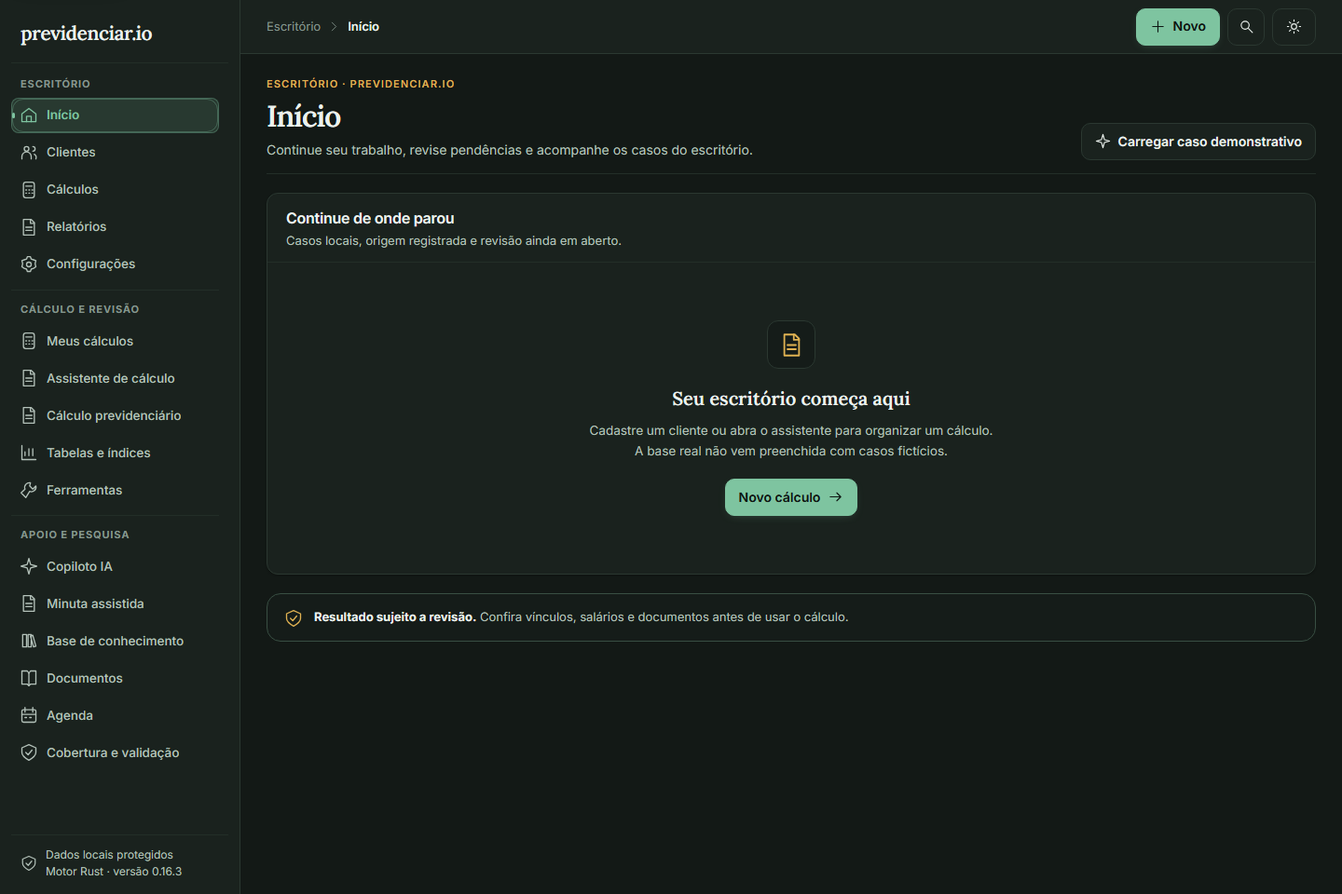
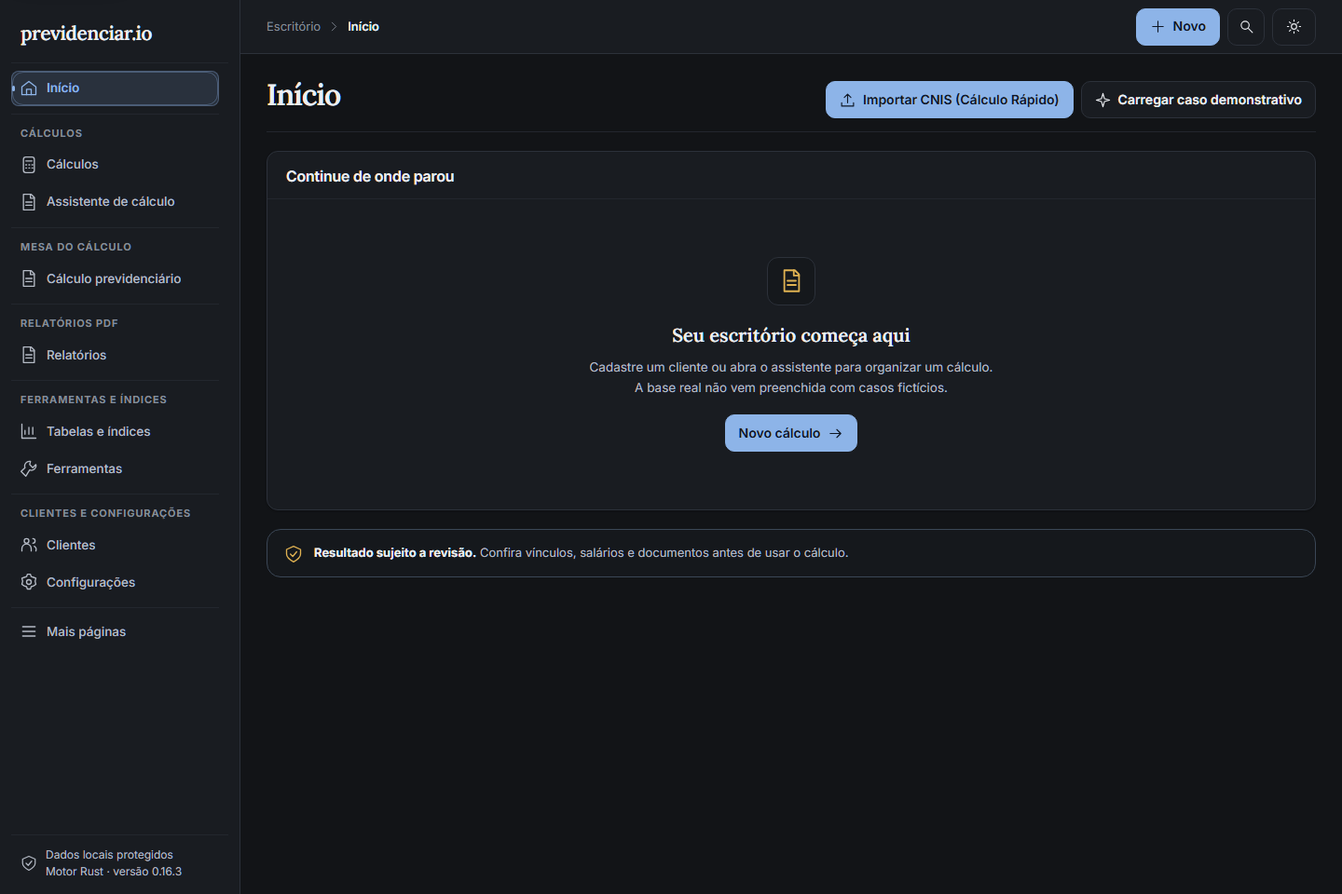
feat(ui): menu em 5 áreas, mesa em 4 abas e aviso de CNIS não revisado no PDF
- Menu lateral com 5 áreas; páginas secundárias em "Mais páginas".
- Mesa do cálculo agrupada em 4 abas; Fábrica TRF3 em aba própria.
- Relatórios PDF mostram "Dados do CNIS não revisados" quando o cálculo
  saiu direto do extrato, com teste.
- Testes de interface ajustados à nova navegação.

diff --git a/apps/desktop/tests/app.test.tsx b/apps/desktop/tests/app.test.tsx
@@ -1,7 +1,7 @@
 import{describe,it,expect,vi,beforeEach}from'vitest';import{render,screen,waitFor,within}from'@testing-library/react';import userEvent from'@testing-library/user-event';import App from'../src/App';import{blankWorkspace,blankCase}from'../src/model';const invoke=vi.hoisted(()=>vi.fn());vi.mock('@tauri-apps/api/core',()=>({invoke}));
 beforeEach(()=>{invoke.mockReset();invoke.mockImplementation(async(cmd:string,args?:Record<string,unknown>)=>{if(cmd==='bootstrap')return{workspace:blankWorkspace(),storage_ready:true,message:null};if(cmd==='save_workspace')return{...(args?.workspace as object),revision:1};throw new Error('Unexpected native command '+cmd)});});
 async function open(){render(<App/>);await screen.findByRole('heading',{name:'Início'});return userEvent.setup()}
-describe('desktop UI workflows with mocked IPC boundary',()=>{it('shows a real empty base instead of invented dashboard metrics',async()=>{await open();expect(screen.getByText('Seu escritório começa aqui')).toBeInTheDocument();expect(screen.getByText('Base local')).toBeInTheDocument()});it('creates a synthetic client and saves the complete workspace',async()=>{const u=await open();await u.click(screen.getByRole('button',{name:'Clientes',exact:true}));await u.click(screen.getByRole('button',{name:'Novo cliente',exact:true}));const dialog=screen.getByRole('dialog',{name:'Novo cliente'});await u.type(within(dialog).getByLabelText(/^Nome/),'Cliente Sintético Teste');await u.click(within(dialog).getByRole('button',{name:'Salvar cliente'}));await screen.findByText('Cliente Sintético Teste');const call=invoke.mock.calls.find(x=>x[0]==='save_workspace');expect(call?.[1].workspace.clients[0].name).toBe('Cliente Sintético Teste');expect(call?.[1].workspace.calculations).toEqual([]);expect(call?.[1].workspace.schema_version).toBe(3)});it('does not accept malformed client birth date',async()=>{const u=await open();await u.click(screen.getByRole('button',{name:'Clientes',exact:true}));await u.click(screen.getByRole('button',{name:'Novo cliente',exact:true}));const d=screen.getByRole('dialog');await u.type(within(d).getByLabelText(/^Nome/),'Sintético');await u.type(within(d).getByLabelText('Nascimento'),'31/02/2026');await u.click(within(d).getByRole('button',{name:'Salvar cliente'}));expect(invoke.mock.calls.filter(x=>x[0]==='save_workspace')).toHaveLength(0);const birth=within(d).getByLabelText('Nascimento');expect(birth).toHaveAttribute('aria-invalid','true');expect(birth).toHaveAttribute('aria-describedby');await waitFor(()=>expect(birth).toHaveFocus());expect(screen.getByRole('alert')).toHaveTextContent('data de nascimento válida')});it('all office pages are navigable',async()=>{const u=await open();for(const name of['Cálculos','Tabelas e índices','Ferramentas','Documentos','Relatórios','Agenda','Configurações','Cobertura e validação']){await u.click(screen.getByRole('button',{name,exact:true}));expect(screen.getByRole('heading',{level:1,name})).toBeInTheDocument()}});it('manual data editor retains eight panels without assuming gender',async()=>{const u=await open();await u.click(screen.getByRole('button',{name:'Novo cálculo',exact:true}));await u.click(screen.getByRole('button',{name:'Não usar o assistente',exact:true}));await u.click(screen.getByRole('button',{name:'3. Cenário'}));const sex=screen.getByLabelText('Sexo cadastral confirmado')as HTMLSelectElement;expect(sex.value).toBe('');for(const step of['4. Vínculos','5. Salários','6. Parâmetros','7. Revisão','8. Resultado']){await u.click(screen.getByRole('button',{name:step}));}expect(screen.getByRole('button',{name:'Executar motor RGPS'})).toBeInTheDocument()});it('save error keeps the draft and reports a real failure',async()=>{invoke.mockImplementation(async(cmd:string)=>{if(cmd==='bootstrap')return{workspace:blankWorkspace(),storage_ready:true,message:null};throw 'Falha de persistência'});const u=await open();await u.click(screen.getByRole('button',{name:'Novo cálculo',exact:true}));await u.click(screen.getByRole('button',{name:'Não usar o assistente',exact:true}));await u.type(screen.getByLabelText(/^Nome do cálculo/),'Caso sintético');await u.click(screen.getByRole('button',{name:'Salvar rascunho'}));await waitFor(()=>expect(screen.getByRole('alert')).toHaveTextContent('Falha de persistência'));expect(screen.getByLabelText(/^Nome do cálculo/)).toHaveValue('Caso sintético')});it('blocked engine output is not called a successful financial result',async()=>{invoke.mockImplementation(async(cmd:string)=>cmd==='bootstrap'?{workspace:blankWorkspace(),storage_ready:true,message:null}:cmd==='calculate_case'?{status:'blocked',data:null,blockers:[{code:'sex_missing',message:'Sexo pendente'}],warnings:[]}:null);const u=await open();await u.click(screen.getByRole('button',{name:'Novo cálculo',exact:true}));await u.click(screen.getByRole('button',{name:'Não usar o assistente',exact:true}));await u.click(screen.getByRole('button',{name:'8. Resultado'}));await u.click(screen.getByRole('button',{name:'Executar motor RGPS'}));await screen.findByText('Execução bloqueada');expect(screen.getByText('Sexo pendente')).toBeInTheDocument();expect(screen.queryByText('RMI da hipótese técnica')).not.toBeInTheDocument()});it('corrupt store boot never silently enables writes',async()=>{invoke.mockResolvedValue({workspace:blankWorkspace(),storage_ready:false,message:'Base inválida, gravação bloqueada'});await open();expect(screen.getByText('Base indisponível')).toBeInTheDocument();expect(screen.getByText(/arquivo existente não será sobrescrito/)).toBeInTheDocument()});it('keyboard search opens local palette',async()=>{const u=await open();await u.keyboard('{Control>}k{/Control}');expect(screen.getByRole('dialog',{name:'Buscar no escritório'})).toBeInTheDocument();await u.keyboard('{Escape}');expect(screen.queryByRole('dialog',{name:'Buscar no escritório'})).not.toBeInTheDocument()});});
+describe('desktop UI workflows with mocked IPC boundary',()=>{it('shows a real empty base instead of invented dashboard metrics',async()=>{await open();expect(screen.getByText('Seu escritório começa aqui')).toBeInTheDocument();expect(screen.getByText('Base local')).toBeInTheDocument()});it('creates a synthetic client and saves the complete workspace',async()=>{const u=await open();await u.click(screen.getByRole('button',{name:'Clientes',exact:true}));await u.click(screen.getByRole('button',{name:'Novo cliente',exact:true}));const dialog=screen.getByRole('dialog',{name:'Novo cliente'});await u.type(within(dialog).getByLabelText(/^Nome/),'Cliente Sintético Teste');await u.click(within(dialog).getByRole('button',{name:'Salvar cliente'}));await screen.findByText('Cliente Sintético Teste');const call=invoke.mock.calls.find(x=>x[0]==='save_workspace');expect(call?.[1].workspace.clients[0].name).toBe('Cliente Sintético Teste');expect(call?.[1].workspace.calculations).toEqual([]);expect(call?.[1].workspace.schema_version).toBe(3)});it('does not accept malformed client birth date',async()=>{const u=await open();await u.click(screen.getByRole('button',{name:'Clientes',exact:true}));await u.click(screen.getByRole('button',{name:'Novo cliente',exact:true}));const d=screen.getByRole('dialog');await u.type(within(d).getByLabelText(/^Nome/),'Sintético');await u.type(within(d).getByLabelText('Nascimento'),'31/02/2026');await u.click(within(d).getByRole('button',{name:'Salvar cliente'}));expect(invoke.mock.calls.filter(x=>x[0]==='save_workspace')).toHaveLength(0);const birth=within(d).getByLabelText('Nascimento');expect(birth).toHaveAttribute('aria-invalid','true');expect(birth).toHaveAttribute('aria-describedby');await waitFor(()=>expect(birth).toHaveFocus());expect(screen.getByRole('alert')).toHaveTextContent('data de nascimento válida')});it('all office pages are navigable',async()=>{const u=await open();for(const name of['Cálculos','Tabelas e índices','Ferramentas','Relatórios','Configurações']){await u.click(screen.getByRole('button',{name,exact:true}));expect(screen.getByRole('heading',{level:1,name})).toBeInTheDocument()}for(const name of['Documentos','Agenda','Cobertura e validação']){await u.click(screen.getByRole('button',{name:'Mais páginas',exact:true}));await u.click(within(screen.getByRole('dialog')).getByRole('button',{name,exact:true}));expect(screen.getByRole('heading',{level:1,name})).toBeInTheDocument()}});it('manual data editor retains eight panels without assuming gender',async()=>{const u=await open();await u.click(screen.getByRole('button',{name:'Novo cálculo',exact:true}));await u.click(screen.getByRole('button',{name:'Não usar o assistente',exact:true}));await u.click(screen.getByRole('button',{name:'3. Cenário'}));const sex=screen.getByLabelText('Sexo cadastral confirmado')as HTMLSelectElement;expect(sex.value).toBe('');for(const step of['4. Vínculos','5. Salários','6. Parâmetros','7. Revisão','8. Resultado']){await u.click(screen.getByRole('button',{name:step}));}expect(screen.getByRole('button',{name:'Executar motor RGPS'})).toBeInTheDocument()});it('save error keeps the draft and reports a real failure',async()=>{invoke.mockImplementation(async(cmd:string)=>{if(cmd==='bootstrap')return{workspace:blankWorkspace(),storage_ready:true,message:null};throw 'Falha de persistência'});const u=await open();await u.click(screen.getByRole('button',{name:'Novo cálculo',exact:true}));await u.click(screen.getByRole('button',{name:'Não usar o assistente',exact:true}));await u.type(screen.getByLabelText(/^Nome do cálculo/),'Caso sintético');await u.click(screen.getByRole('button',{name:'Salvar rascunho'}));await waitFor(()=>expect(screen.getByRole('alert')).toHaveTextContent('Falha de persistência'));expect(screen.getByLabelText(/^Nome do cálculo/)).toHaveValue('Caso sintético')});it('blocked engine output is not called a successful financial result',async()=>{invoke.mockImplementation(async(cmd:string)=>cmd==='bootstrap'?{workspace:blankWorkspace(),storage_ready:true,message:null}:cmd==='calculate_case'?{status:'blocked',data:null,blockers:[{code:'sex_missing',message:'Sexo pendente'}],warnings:[]}:null);const u=await open();await u.click(screen.getByRole('button',{name:'Novo cálculo',exact:true}));await u.click(screen.getByRole('button',{name:'Não usar o assistente',exact:true}));await u.click(screen.getByRole('button',{name:'8. Resultado'}));await u.click(screen.getByRole('button',{name:'Executar motor RGPS'}));await screen.findByText('Execução bloqueada');expect(screen.getByText('Sexo pendente')).toBeInTheDocument();expect(screen.queryByText('RMI da hipótese técnica')).not.toBeInTheDocument()});it('corrupt store boot never silently enables writes',async()=>{invoke.mockResolvedValue({workspace:blankWorkspace(),storage_ready:false,message:'Base inválida, gravação bloqueada'});await open();expect(screen.getByText('Base indisponível')).toBeInTheDocument();expect(screen.getByText(/arquivo existente não será sobrescrito/)).toBeInTheDocument()});it('keyboard search opens local palette',async()=>{const u=await open();await u.keyboard('{Control>}k{/Control}');expect(screen.getByRole('dialog',{name:'Buscar no escritório'})).toBeInTheDocument();await u.keyboard('{Escape}');expect(screen.queryByRole('dialog',{name:'Buscar no escritório'})).not.toBeInTheDocument()});});
 
 it('renders native-result structure as readable RMI and memory without legal certification',async()=>{invoke.mockImplementation(async(cmd:string)=>cmd==='bootstrap'?{workspace:blankWorkspace(),storage_ready:true,message:null}:cmd==='calculate_case'?{status:'experimental',legal_validation_performed:false,data:{native_result:{resumo:{rmi:'1600.00',salario_beneficio:'2000.00',competencias:300,coeficiente:'80%',carencia_meses:300},memoria:[{tipo:'coeficiente',descricao:'Hipótese sintética do motor',valor:'80%'}]}},warnings:['Resultado experimental, não validação jurídica.']}:null);const u=await open();await u.click(screen.getByRole('button',{name:'Novo cálculo',exact:true}));await u.click(screen.getByRole('button',{name:'Não usar o assistente',exact:true}));await u.click(screen.getByRole('button',{name:'8. Resultado'}));await u.click(screen.getByRole('button',{name:'Executar motor RGPS'}));await screen.findByText('R$ 1.600,00');expect(screen.getByText('Hipótese sintética do motor')).toBeInTheDocument();expect(screen.getByText('Revisão profissional necessária')).toBeInTheDocument();expect(screen.queryByRole('heading',{name:'Execução bloqueada'})).not.toBeInTheDocument()});
 

diff --git a/apps/desktop/tests/e2e/workflows.spec.ts b/apps/desktop/tests/e2e/workflows.spec.ts
@@ -5,6 +5,6 @@ test('visual dashboard, all local data synthetic',async({page})=>{await mockNati
 test('client create edit search archive and complete save payload',async({page})=>{await mockNative(page);await page.goto('/',{waitUntil:'domcontentloaded'});await page.getByRole('button',{name:'Clientes',exact:true}).click();await page.getByRole('button',{name:'Novo cliente',exact:true}).click();const modal=page.getByRole('dialog',{name:'Novo cliente'});await modal.getByLabel(/^Nome/).fill('Cliente Sintético UI');await modal.getByLabel('E-mail').fill('teste@invalid.test');await modal.getByRole('button',{name:'Salvar cliente'}).click();await expect(page.getByRole('row',{name:/Cliente Sintético UI/})).toBeVisible();await page.getByRole('button',{name:'Editar',exact:true}).click();await page.getByRole('dialog').getByLabel('Telefone').fill('Telefone sintético');await page.getByRole('dialog').getByRole('button',{name:'Salvar cliente'}).click();await page.getByLabel('Pesquisar nome, CPF, e-mail ou telefone').fill('Cliente Sintético');await expect(page.getByRole('row',{name:/Telefone sintético/})).toBeVisible();await page.screenshot({path:root+'/ui-clients.png',fullPage:true});await page.getByRole('button',{name:'Arquivar',exact:true}).click();await expect(page.getByText('Nenhum cliente encontrado')).toBeVisible();await page.getByLabel('Incluir arquivados').check();await expect(page.getByRole('button',{name:'Reativar'})).toBeVisible();});
 test('manual editor traverses all panels, preserves unknown parameters, blocked engine is visible',async({page})=>{await mockNative(page);await page.goto('/',{waitUntil:'domcontentloaded'});await page.getByRole('button',{name:'Novo cálculo',exact:true}).click();await page.getByRole('button',{name:'Não usar o assistente',exact:true}).click();await page.getByLabel('Nome do cálculo').fill('Caso Fictício UI');await page.getByRole('button',{name:'3. Cenário',exact:true}).click();await expect(page.getByLabel('Sexo cadastral confirmado')).toHaveValue('');await expect(page.getByLabel('Condição de deficiência')).toHaveValue('');await page.screenshot({path:root+'/ui-assistant-scenario.png',fullPage:true});for(const step of['4. Vínculos','5. Salários','6. Parâmetros','7. Revisão','8. Resultado'])await page.getByRole('button',{name:step,exact:true}).click();await page.getByRole('button',{name:'Executar motor RGPS'}).click();await expect(page.getByRole('heading',{name:'Execução bloqueada'})).toBeVisible();await expect(page.getByText('Sexo cadastral pendente de confirmação.',{exact:true})).toBeVisible();await page.screenshot({path:root+'/ui-assistant-blocked.png',fullPage:true});});
 test('tables editor preserves explicit provenance and manual values',async({page})=>{await mockNative(page);await page.goto('/',{waitUntil:'domcontentloaded'});await page.getByRole('button',{name:'Tabelas e índices',exact:true}).click();await page.getByRole('button',{name:'Nova tabela'}).click();const d=page.getByRole('dialog');await d.getByLabel(/^Nome/).fill('Série Fictícia UI');await d.getByLabel('Fonte / versão').fill('Fixture sintética, não oficial');await d.getByRole('button',{name:'Adicionar período'}).click();await d.getByLabel('period 1',{exact:true}).fill('2026-01');await d.getByLabel('value 1',{exact:true}).fill('1,00');await d.getByRole('button',{name:'Salvar tabela'}).click();await expect(page.getByText('Série Fictícia UI')).toBeVisible();await page.screenshot({path:root+'/ui-tables.png',fullPage:true});});
-test('documents and agenda editors save only declared synthetic entries',async({page})=>{await mockNative(page);await page.goto('/',{waitUntil:'domcontentloaded'});await page.getByRole('button',{name:'Documentos',exact:true}).click();await page.getByRole('button',{name:'Novo modelo'}).click();const d=page.getByRole('dialog');await d.getByLabel('Título').fill('Modelo Sintético UI');await d.getByLabel('Conteúdo do modelo').fill('Caso {{calculo}}; {{nome}}. Texto de teste, sem finalidade jurídica.');await d.getByRole('button',{name:'Salvar modelo'}).click();await expect(page.getByRole('heading',{name:'Modelo Sintético UI'})).toBeVisible();await page.screenshot({path:root+'/ui-documents.png',fullPage:true});await page.getByRole('button',{name:'Agenda',exact:true}).click();await page.getByRole('button',{name:'Novo compromisso'}).click();const a=page.getByRole('dialog');await a.getByLabel('Título').fill('Compromisso Sintético UI');await a.getByLabel('Data',{exact:true}).fill('11/10/2026');await a.getByLabel('Hora',{exact:true}).fill('10:00');await a.getByRole('button',{name:'Salvar compromisso'}).click();await expect(page.getByText('Compromisso Sintético UI')).toBeVisible();await page.screenshot({path:root+'/ui-agenda.png',fullPage:true});});
+test('documents and agenda editors save only declared synthetic entries',async({page})=>{await mockNative(page);await page.goto('/',{waitUntil:'domcontentloaded'});await page.getByRole('button',{name:'Mais páginas',exact:true}).click();await page.getByRole('dialog').getByRole('button',{name:'Documentos',exact:true}).click();await page.getByRole('button',{name:'Novo modelo'}).click();const d=page.getByRole('dialog');await d.getByLabel('Título').fill('Modelo Sintético UI');await d.getByLabel('Conteúdo do modelo').fill('Caso {{calculo}}; {{nome}}. Texto de teste, sem finalidade jurídica.');await d.getByRole('button',{name:'Salvar modelo'}).click();await expect(page.getByRole('heading',{name:'Modelo Sintético UI'})).toBeVisible();await page.screenshot({path:root+'/ui-documents.png',fullPage:true});await page.getByRole('button',{name:'Mais páginas',exact:true}).click();await page.getByRole('dialog').getByRole('button',{name:'Agenda',exact:true}).click();await page.getByRole('button',{name:'Novo compromisso'}).click();const a=page.getByRole('dialog');await a.getByLabel('Título').fill('Compromisso Sintético UI');await a.getByLabel('Data',{exact:true}).fill('11/10/2026');await a.getByLabel('Hora',{exact:true}).fill('10:00');await a.getByRole('button',{name:'Salvar compromisso'}).click();await expect(page.getByText('Compromisso Sintético UI')).toBeVisible();await page.screenshot({path:root+'/ui-agenda.png',fullPage:true});});
 test('finance form calls typed boundary and displays outcome with caveat',async({page})=>{await mockNative(page);await page.goto('/',{waitUntil:'domcontentloaded'});await page.getByRole('button',{name:'Ferramentas',exact:true}).click();await page.getByLabel('Módulo',{exact:true}).selectOption({label:'Atualização de valores'});for(const[label,value]of[['Valor principal','1.000,00'],['Correções mensais (%) separadas por ;','1;2'],['Juros por mês (%)','1'],['Número de meses','2'],['Honorários (%)','10'],['Honorários fixos','5,00'],['Fonte / declaração dos parâmetros','Parâmetros sintéticos de validação']])await page.getByLabel(label,{exact:false}).fill(value);await page.getByRole('button',{name:'Executar cálculo',exact:true}).click();await expect(page.getByText('R$ 1.160,88',{exact:true})).toBeVisible();await page.screenshot({path:root+'/ui-finance.png',fullPage:true});});
-test('all remaining sections and Ctrl+K are functional at narrow viewport',async({page})=>{await mockNative(page,true);await page.goto('/',{waitUntil:'domcontentloaded'});for(const name of['Cálculos','Relatórios','Configurações','Cobertura e validação']){await page.getByRole('button',{name,exact:true}).click();await expect(page.getByRole('heading',{name,level:1})).toBeVisible();await page.screenshot({path:root+'/ui-'+name.normalize('NFD').replace(/[\u0300-\u036f]/g,'').toLowerCase().replaceAll(' ','-')+'.png',fullPage:true});}await page.keyboard.press('Control+k');await expect(page.getByRole('dialog',{name:'Buscar no escritório'})).toBeVisible();await page.keyboard.press('Escape');await page.setViewportSize({width:1080,height:800});await page.getByRole('button',{name:'Início',exact:true}).click();await page.screenshot({path:root+'/ui-home-1080.png',fullPage:true});expect(await page.locator('body').evaluate(el=>el.scrollWidth<=window.innerWidth)).toBe(true);});
+test('all remaining sections and Ctrl+K are functional at narrow viewport',async({page})=>{await mockNative(page,true);await page.goto('/',{waitUntil:'domcontentloaded'});for(const name of['Cálculos','Relatórios','Configurações','Cobertura e validação']){if(name==='Cobertura e validação'){await page.getByRole('button',{name:'Mais páginas',exact:true}).click();await page.getByRole('dialog').getByRole('button',{name,exact:true}).click();}else await page.getByRole('button',{name,exact:true}).click();await expect(page.getByRole('heading',{name,level:1})).toBeVisible();await page.screenshot({path:root+'/ui-'+name.normalize('NFD').replace(/[\u0300-\u036f]/g,'').toLowerCase().replaceAll(' ','-')+'.png',fullPage:true});}await page.keyboard.press('Control+k');await expect(page.getByRole('dialog',{name:'Buscar no escritório'})).toBeVisible();await page.keyboard.press('Escape');await page.setViewportSize({width:1080,height:800});await page.getByRole('button',{name:'Início',exact:true}).click();await page.screenshot({path:root+'/ui-home-1080.png',fullPage:true});expect(await page.locator('body').evaluate(el=>el.scrollWidth<=window.innerWidth)).toBe(true);});

diff --git a/apps/desktop/tests/e2e/robot-entry.spec.ts b/apps/desktop/tests/e2e/robot-entry.spec.ts
@@ -1,6 +1,6 @@
 import{test,expect}from'@playwright/test';import{blankWorkspace,blankCase,blankInterview}from'../../src/model';
 async function bridge(page:import('@playwright/test').Page){const w=blankWorkspace();await page.addInitScript(workspace=>{let saved=workspace;const identity={full_name:'Pessoa Fictícia Robô UI',cpf:null,nit:null,birth_date:'1962-03-10',mother_name:null};const cnis={metadata:{page_count:1,source_sha256:null,extractor:'Synthetic UI fixture'},identity,salary_entries:[{competence:'2020-01',amount_centavos:200000,indicators:['PRPPS'],link_sequence:1,source:{page:1,line:1,index:1},excluded_from_validated_domain:true}],salary_months:{'2020-01':{count:1,amount_sum_centavos:200000,contains_unresolved_prpps:true}},links:[{sequence:1,raw_employer:'EMPREGADOR FICTÍCIO',start_date:'2020-01-01',end_date:null,prpps:true,indicators:['PRPPS'],reported_last_salary_month:'2020-01',inferred_last_salary_end:{date_candidate:'2020-01-31',requires_confirmation:true},source:{page:1}}],benefits:[],warnings:[{code:'unresolved_prpps',message:'Synthetic',count:1}],findings:[]};Object.defineProperty(window,'__TAURI_INTERNALS__',{value:{invoke:async(cmd:string,args:Record<string,unknown>)=>{if(cmd==='bootstrap')return{workspace:saved,storage_ready:true,message:null};if(cmd==='save_workspace'){saved={...(args.workspace as typeof workspace),revision:saved.revision+1};return saved}if(cmd==='pick_import_cnis'||cmd==='import_cnis_path')return cnis;if(cmd==='calculate_case')return{status:'blocked',data:null,blockers:[{message:'PRPPS e datas abertas exigem revisão documental.'}],warnings:['Synthetic UI IPC fixture; not a Rust computation']};throw new Error('Unexpected test command '+cmd)}}});},w)}
-async function start(page:import('@playwright/test').Page){await bridge(page);await page.goto('/',{waitUntil:'domcontentloaded'});await page.getByRole('button',{name:'Meus cálculos',exact:true}).click();await page.getByRole('button',{name:'Novo cálculo',exact:true}).click();await expect(page.getByRole('dialog',{name:'Novo cálculo'})).toBeVisible();await page.screenshot({path:'verification/ui-new-calculation-assistant-choice.png',fullPage:true});await page.getByRole('button',{name:'Usar o assistente de cálculos',exact:true}).click();await expect(page.getByText(/Sou o assistente/)).toBeVisible();}
+async function start(page:import('@playwright/test').Page){await bridge(page);await page.goto('/',{waitUntil:'domcontentloaded'});await page.getByRole('button',{name:'Mais páginas',exact:true}).click();await page.getByRole('dialog').getByRole('button',{name:'Meus cálculos',exact:true}).click();await page.getByRole('button',{name:'Novo cálculo',exact:true}).click();await expect(page.getByRole('dialog',{name:'Novo cálculo'})).toBeVisible();await page.screenshot({path:'verification/ui-new-calculation-assistant-choice.png',fullPage:true});await page.getByRole('button',{name:'Usar o assistente de cálculos',exact:true}).click();await expect(page.getByText(/Sou o assistente/)).toBeVisible();}
 test('requested exact entry is visible, calm interview starts only after choosing the assistant',async({page})=>{await start(page);await expect(page.getByRole('button',{name:'Prosseguir',exact:true})).toBeDisabled();await page.getByLabel('Nome do cálculo',{exact:true}).fill('Teste Sintético Robô');await page.getByRole('button',{name:'Prosseguir',exact:true}).click();await expect(page.getByRole('button',{name:/Não, o segurado não está recebendo benefício/})).toBeVisible();await page.screenshot({path:'verification/ui-robot-benefit-question.png',fullPage:true});});
 test('CNIS-shaped fixture is imported then requires unknown facts, all later panels and blocks are exercised',async({page})=>{await start(page);await page.getByLabel('Nome do cálculo',{exact:true}).fill('Teste Sintético Importação Robô');await page.getByRole('button',{name:'Prosseguir',exact:true}).click();await page.getByRole('button',{name:/Não, o segurado não está recebendo benefício/}).click();await page.getByRole('button',{name:/Sim, desejo importar dados do INSS/}).click();await page.getByRole('button',{name:/Selecionar CNIS PDF/}).click();await expect(page.getByRole('button',{name:'Aplicar CNIS e continuar',exact:true})).toBeVisible();await page.screenshot({path:'verification/ui-robot-cnis-review-synthetic.png',fullPage:true});await page.getByRole('button',{name:'Aplicar CNIS e continuar',exact:true}).click();await page.getByRole('button',{name:/Simular um novo benefício/}).click();await page.getByRole('button',{name:/Calcular um novo benefício/}).click();
 // O assistente mostra um parâmetro por tela: o sexo vem primeiro e a deficiência

diff --git a/apps/desktop/src/App.tsx b/apps/desktop/src/App.tsx
@@ -52,25 +52,26 @@ type Page =
   | 'coverage';
 
 const NAV: { id: Page; label: string; full?: string; icon: string; group: string }[] = [
-  { id: 'home', label: 'Início', icon: 'home', group: 'Escritório' },
-  { id: 'clients', label: 'Clientes', icon: 'users', group: 'Escritório' },
-  { id: 'cases', label: 'Cálculos', icon: 'calc', group: 'Escritório' },
-  { id: 'reports', label: 'Relatórios', icon: 'file', group: 'Escritório' },
-  { id: 'settings', label: 'Configurações', icon: 'settings', group: 'Escritório' },
-  { id: 'rgps', label: 'Meus cálculos', icon: 'calc', group: 'Cálculo e revisão' },
-  { id: 'robot', label: 'Assistente de cálculo', icon: 'file', group: 'Cálculo e revisão' },
-  { id: 'wizard', label: 'Cálculo previdenciário', icon: 'file', group: 'Cálculo e revisão' },
-  { id: 'tables', label: 'Tabelas e índices', icon: 'chart', group: 'Cálculo e revisão' },
-  { id: 'tools', label: 'Ferramentas', icon: 'tool', group: 'Cálculo e revisão' },
-  { id: 'ai', label: 'Copiloto IA', icon: 'spark', group: 'Apoio e pesquisa' },
-  { id: 'minuta', label: 'Minuta assistida', icon: 'file', group: 'Apoio e pesquisa' },
-  { id: 'knowledge', label: 'Base de conhecimento', icon: 'library', group: 'Apoio e pesquisa' },
-  { id: 'documents', label: 'Documentos', icon: 'book', group: 'Apoio e pesquisa' },
-  { id: 'agenda', label: 'Agenda', icon: 'calendar', group: 'Apoio e pesquisa' },
-  { id: 'coverage', label: 'Cobertura e validação', icon: 'shield', group: 'Apoio e pesquisa' },
+  { id: 'home', label: 'Início', icon: 'home', group: 'Início' },
+  { id: 'cases', label: 'Cálculos', icon: 'calc', group: 'Cálculos' },
+  { id: 'robot', label: 'Assistente de cálculo', icon: 'file', group: 'Cálculos' },
+  { id: 'wizard', label: 'Cálculo previdenciário', icon: 'file', group: 'Mesa do cálculo' },
+  { id: 'reports', label: 'Relatórios', icon: 'file', group: 'Relatórios PDF' },
+  { id: 'tables', label: 'Tabelas e índices', icon: 'chart', group: 'Ferramentas e índices' },
+  { id: 'tools', label: 'Ferramentas', icon: 'tool', group: 'Ferramentas e índices' },
+  { id: 'clients', label: 'Clientes', icon: 'users', group: 'Clientes e configurações' },
+  { id: 'settings', label: 'Configurações', icon: 'settings', group: 'Clientes e configurações' },
+  { id: 'rgps', label: 'Meus cálculos', icon: 'calc', group: 'Mais' },
+  { id: 'ai', label: 'Copiloto IA', icon: 'spark', group: 'Mais' },
+  { id: 'minuta', label: 'Minuta assistida', icon: 'file', group: 'Mais' },
+  { id: 'knowledge', label: 'Base de conhecimento', icon: 'library', group: 'Mais' },
+  { id: 'documents', label: 'Documentos', icon: 'book', group: 'Mais' },
+  { id: 'agenda', label: 'Agenda', icon: 'calendar', group: 'Mais' },
+  { id: 'coverage', label: 'Cobertura e validação', icon: 'shield', group: 'Mais' },
 ];
 
-const NAV_GROUPS = ['Escritório', 'Cálculo e revisão', 'Apoio e pesquisa'] as const;
+/** Áreas do menu lateral. As páginas do grupo "Mais" ficam no botão "Mais páginas". */
+const NAV_GROUPS = ['Início', 'Cálculos', 'Mesa do cálculo', 'Relatórios PDF', 'Ferramentas e índices', 'Clientes e configurações'] as const;
 
 const WEB_MODE = import.meta.env.MODE === 'web';
 
@@ -817,7 +818,7 @@ function WorkspaceApp() {
         <nav className="side-nav" aria-label="Navegação principal">
           {NAV_GROUPS.map(group => (
             <div className="side-group" key={group}>
-              <div className="side-group-label">{group}</div>
+              {group !== 'Início' && <div className="side-group-label">{group}</div>}
               {NAV.filter(n => n.group === group).map(n => (
                 <div key={n.id}>
                   <button
@@ -837,6 +838,19 @@ function WorkspaceApp() {
               ))}
             </div>
           ))}
+          <div className="side-group">
+            <button
+              type="button"
+              className={'side-link ' + (NAV.some(n => n.group === 'Mais' && n.id === page) ? 'active' : '')}
+              aria-label="Mais páginas"
+              title="Mais páginas"
+              data-od-id="nav-more"
+              onClick={() => setMobileMenu(true)}
+            >
+              <Icon name="menu" />
+              <span className="side-label">Mais páginas</span>
+            </button>
+          </div>
         </nav>
         <div className="side-foot">
           <Icon name="shield" size={18} />

diff --git a/apps/desktop/src/components/CaseWorkbench.tsx b/apps/desktop/src/components/CaseWorkbench.tsx
@@ -30,7 +30,15 @@ import { ReportCenter } from './ReportCenter';
 import { LinkKindSelect } from './LinkKindSelect';
 import { CnisTimeline } from './CnisTimeline';
 
-const STEPS = ['Identificação', 'CNIS', 'Cenário', 'Vínculos', 'Salários', 'Parâmetros', 'Revisão', 'Resultado'];
+const STEPS = ['Identificação', 'CNIS', 'Cenário', 'Vínculos', 'Salários', 'Parâmetros', 'Revisão', 'Resultado', 'Comparativo'];
+const LAST_STEP = STEPS.length - 1;
+/** Abas da mesa do cálculo. Cada aba agrupa etapas; os índices de etapa continuam os mesmos. */
+const TABS: { label: string; steps: number[] }[] = [
+  { label: 'Dados e CNIS', steps: [0, 1, 2] },
+  { label: 'Períodos e salários', steps: [3, 4] },
+  { label: 'Resultado e relatórios PDF', steps: [5, 6, 7] },
+  { label: 'Fábrica TRF3', steps: [8] },
+];
 
 function warningLabel(code: string) {
   const m: Record<string, string> = {
@@ -282,7 +290,7 @@ export function CaseWorkbench({
   }
 
   function jumpToFabrica() {
-    setStep(7);
+    setStep(8);
     requestAnimationFrame(() => {
       document.getElementById('fabrica-hub')?.scrollIntoView({ behavior: 'smooth', block: 'start' });
     });
@@ -474,17 +482,36 @@ export function CaseWorkbench({
       )}
 
       {!embedded && (
-        <div className="wizard-bar">
-          {STEPS.map((s, i) => (
-            <button
-              key={s}
-              aria-label={i + 1 + '. ' + s}
-              className={'wizard-step ' + (step === i ? 'active' : i < step ? 'done' : '')}
-              onClick={() => setStep(i)}
-            >
-              <span>{i + 1}.</span> {s}
-            </button>
-          ))}
+        <div className="wizard-bar wizard-tabs" role="navigation" aria-label="Abas da mesa do cálculo">
+          {TABS.map(tab => {
+            const activeTab = tab.steps.includes(step);
+            return (
+              <div key={tab.label} className={'wizard-tab ' + (activeTab ? 'active' : '')}>
+                <button
+                  type="button"
+                  className="wizard-tab-head"
+                  aria-current={activeTab ? 'step' : undefined}
+                  onClick={() => setStep(tab.steps[0])}
+                >
+                  {tab.label}
+                </button>
+                {tab.steps.length > 1 && (
+                  <div className="wizard-tab-steps">
+                    {tab.steps.map(i => (
+                      <button
+                        key={STEPS[i]}
+                        aria-label={i + 1 + '. ' + STEPS[i]}
+                        className={'wizard-step ' + (step === i ? 'active' : i < step ? 'done' : '')}
+                        onClick={() => setStep(i)}
+                      >
+                        <span>{i + 1}.</span> {STEPS[i]}
+                      </button>
+                    ))}
+                  </div>
+                )}
+              </div>
+            );
+          })}
         </div>
       )}
 
@@ -1188,7 +1215,7 @@ export function CaseWorkbench({
 
           {draft.result && <ResultView result={draft.result} />}
 
-          <FabricaCheck draft={draft} workspace={workspace} onChange={setDraft} />
+          {embedded && <FabricaCheck draft={draft} workspace={workspace} onChange={setDraft} />}
 
           {(draft.result || draft.fabrica || draft.cnis) && (
             <ReportCenter
@@ -1203,6 +1230,12 @@ export function CaseWorkbench({
         </>
       )}
 
+      {step === 8 && !embedded && (
+        <div>
+          <FabricaCheck draft={draft} workspace={workspace} onChange={setDraft} />
+        </div>
+      )}
+
       {!embedded && (
         <footer className="wizard-foot">
           <Button disabled={step === 0} onClick={() => setStep(step - 1)}>
@@ -1210,7 +1243,7 @@ export function CaseWorkbench({
           </Button>
           <div>
             <Button onClick={() => void onSave(draft)}>Salvar rascunho</Button>
-            {step < 7 && (
+            {step < LAST_STEP && (
               <Button primary onClick={() => setStep(step + 1)}>
                 Próxima etapa
                 <Icon name="arrow" size={16} />

diff --git a/apps/desktop/tests/robot.test.tsx b/apps/desktop/tests/robot.test.tsx
@@ -1,7 +1,7 @@
 import{describe,it,expect,vi,beforeEach}from'vitest';import{render,screen,within,waitFor}from'@testing-library/react';import userEvent from'@testing-library/user-event';import App from'../src/App';import{RobotAssistant,assistantStepState}from'../src/components/RobotAssistant';import{blankWorkspace,blankCase,blankInterview,withInterviewAnswer,robotParameterIssues}from'../src/model';import type{Calculation,Cnis}from'../src/model';const invoke=vi.hoisted(()=>vi.fn());vi.mock('@tauri-apps/api/core',()=>({invoke}));
 function fixtureCnis():Cnis{return{metadata:{page_count:1,source_sha256:null,extractor:'synthetic'},identity:{full_name:'Pessoa Fictícia de Teste',cpf:null,nit:null,birth_date:'1962-03-10',mother_name:null},salary_entries:[{competence:'2020-01',amount_centavos:200000,indicators:['PRPPS'],link_sequence:1,source:{page:1,line:1,index:1},excluded_from_validated_domain:true}],salary_months:{'2020-01':{count:1,amount_sum_centavos:200000,contains_unresolved_prpps:true}},links:[{sequence:1,raw_employer:'EMPREGADOR FICTÍCIO',start_date:'2020-01-01',end_date:null,prpps:true,indicators:['PRPPS'],reported_last_salary_month:'2020-01',inferred_last_salary_end:{date_candidate:'2020-01-31',requires_confirmation:true},source:{page:1}}],benefits:[{sequence:2,species:41,status:'denied'}],findings:[],warnings:[{code:'unresolved_prpps',message:'Sintético: pendência',count:1},{code:'missing_end_date',message:'Fim ausente',count:1}]}}
 beforeEach(()=>{invoke.mockReset();invoke.mockImplementation(async(cmd:string,args?:Record<string,unknown>)=>{if(cmd==='bootstrap')return{workspace:blankWorkspace(),storage_ready:true,message:null};if(cmd==='save_workspace')return{...(args?.workspace as object),revision:1};if(cmd==='pick_import_cnis'||cmd==='import_cnis_path')return fixtureCnis();if(cmd==='calculate_case')return{status:'blocked',data:null,warnings:['Teste de fronteira'],blockers:[{message:'Registros de origem não confirmados.'}]};throw new Error('Unexpected command '+cmd)});});
-async function begin(){render(<App/>);await screen.findByRole('heading',{name:'Início'});const u=userEvent.setup();await u.click(screen.getByRole('button',{name:'Meus cálculos',exact:true}));await u.click(screen.getByRole('button',{name:'Novo cálculo',exact:true}));await u.click(screen.getByRole('button',{name:'Usar o assistente de cálculos',exact:true}));return u}
+async function begin(){render(<App/>);await screen.findByRole('heading',{name:'Início'});const u=userEvent.setup();await u.click(screen.getByRole('button',{name:'Mais páginas',exact:true}));await u.click(within(screen.getByRole('dialog')).getByRole('button',{name:'Meus cálculos',exact:true}));await u.click(screen.getByRole('button',{name:'Novo cálculo',exact:true}));await u.click(screen.getByRole('button',{name:'Usar o assistente de cálculos',exact:true}));return u}
 async function toImport(u:ReturnType<typeof userEvent.setup>){await u.type(screen.getByLabelText('Nome do cálculo'),'Simulação Sintética do Assistente');await u.click(screen.getByRole('button',{name:'Prosseguir',exact:true}));await u.click(screen.getByRole('button',{name:/Não, o segurado não está recebendo benefício/}));}
 async function toParameters(u:ReturnType<typeof userEvent.setup>){await toImport(u);await u.click(screen.getByRole('button',{name:/Sim, desejo importar dados do INSS/}));await u.click(screen.getByRole('button',{name:/Selecionar CNIS PDF/}));await screen.findByText('Pessoa Fictícia de Teste');await u.click(screen.getByRole('button',{name:'Aplicar CNIS e continuar'}));await u.click(screen.getByRole('button',{name:/Simular um novo benefício/}));await u.click(screen.getByRole('button',{name:/Calcular um novo benefício/}));}
 describe('Previus-style robot assistant entry and interview',()=>{

diff --git a/apps/desktop/tests/e2e/amicro.spec.ts b/apps/desktop/tests/e2e/amicro.spec.ts
@@ -28,6 +28,9 @@ for (const width of [1440, 1152, 768, 390, 320]) {
       if (width < 1024) {
         await page.getByRole('button', { name: 'Todas as páginas', exact: true }).click();
         await page.getByRole('dialog').getByRole('button', { name: route, exact: true }).click();
+      } else if (['Meus cálculos', 'Documentos', 'Agenda', 'Cobertura e validação'].includes(route)) {
+        await page.getByRole('button', { name: 'Mais páginas', exact: true }).click();
+        await page.getByRole('dialog').getByRole('button', { name: route, exact: true }).click();
       } else await page.getByRole('navigation', { name: 'Navegação principal' }).getByRole('button', { name: route, exact: true }).click();
       await expect(page.getByRole('heading', { name: route, exact: true })).toBeVisible();
       await expect.poll(() => page.locator('body').evaluate(el => el.scrollWidth <= innerWidth)).toBe(true);
@@ -82,6 +85,7 @@ test('Demo case button opens Previus summary bar and 5-tab TRF3 hub cleanly', as
   await page.getByRole('button', { name: 'Carregar caso demonstrativo', exact: true }).click();
   await expect(page.getByRole('heading', { name: 'Cálculo previdenciário', level: 1 })).toBeVisible();
   await expect(page.getByRole('region', { name: 'Resumo rápido do cálculo' })).toBeVisible();
+  await page.getByRole('button', { name: 'Fábrica TRF3', exact: true }).click();
   for (const label of ['RMI (17 Espécies)', 'Tempo de Contribuição', 'Atrasados / Liquidação', 'Leitor Documental', 'Índices e Tabelas']) {
     await expect(page.getByRole('tab', { name: label, exact: true })).toBeVisible();
   }

diff --git a/apps/desktop/tests/e2e/assistant-flow.spec.ts b/apps/desktop/tests/e2e/assistant-flow.spec.ts
@@ -21,7 +21,7 @@ async function start(page:import('@playwright/test').Page){
 async function openAssistant(page:import('@playwright/test').Page,width:number,testInfo:import('@playwright/test').TestInfo){
   await page.setViewportSize({width,height:900});await start(page);
   if(width<1024){await page.getByRole('button',{name:'Todas as páginas',exact:true}).click();await page.getByRole('dialog').getByRole('button',{name:'Meus cálculos',exact:true}).click();}
-  else await page.getByRole('button',{name:'Meus cálculos',exact:true}).click();
+  else {await page.getByRole('button',{name:'Mais páginas',exact:true}).click();await page.getByRole('dialog').getByRole('button',{name:'Meus cálculos',exact:true}).click();}
   await page.getByRole('button',{name:'Abrir',exact:true}).click();
   await expect(page.getByText('O que entra no cálculo')).toBeVisible();
   await expect(page.getByText('Pronto para o motor')).toBeVisible();

diff --git a/apps/desktop/src/styles/app.css b/apps/desktop/src/styles/app.css
@@ -1776,3 +1776,48 @@ p {
     scroll-behavior: auto !important;
   }
 }
+
+/* Mesa do cálculo em 4 abas; as etapas numeradas ficam dentro de cada aba. */
+.wizard-tabs {
+  align-items: stretch;
+}
+
+.wizard-tab {
+  display: flex;
+  flex-direction: column;
+  gap: 4px;
+  padding: 4px;
+  border-radius: 8px;
+  border: 1px solid transparent;
+}
+
+.wizard-tab.active {
+  border-color: var(--border);
+  background: var(--surface-hover);
+}
+
+.wizard-tab-head {
+  background: transparent;
+  border: 0;
+  color: var(--fg-2);
+  font-size: 12px;
+  font-weight: 600;
+  text-align: left;
+  padding: 4px 8px;
+  min-height: 28px;
+  border-radius: 6px;
+}
+
+.wizard-tab.active .wizard-tab-head {
+  color: var(--accent);
+}
+
+.wizard-tab-head:hover {
+  color: var(--fg);
+}
+
+.wizard-tab-steps {
+  display: flex;
+  gap: 4px;
+  flex-wrap: wrap;
+}

diff --git a/apps/desktop/tests/guided-flow.test.tsx b/apps/desktop/tests/guided-flow.test.tsx
@@ -12,7 +12,7 @@ beforeEach(()=>{invoke.mockReset();invoke.mockImplementation(async(cmd:string,ar
 
 async function toConference(){
   render(<App/>);await screen.findByRole('heading',{name:'Início'});const u=userEvent.setup();
-  await u.click(screen.getByRole('button',{name:'Meus cálculos',exact:true}));
+  await u.click(screen.getByRole('button',{name:'Mais páginas',exact:true}));await u.click(within(screen.getByRole('dialog')).getByRole('button',{name:'Meus cálculos',exact:true}));
   await u.click(screen.getByRole('button',{name:'Novo cálculo',exact:true}));
   await u.click(screen.getByRole('button',{name:'Usar o assistente de cálculos',exact:true}));
   await u.type(screen.getByLabelText('Nome do cálculo'),'Simulação Sintética do Assistente');

diff --git a/crates/previdenciar-reports/src/report_data.rs b/crates/previdenciar-reports/src/report_data.rs
@@ -1222,10 +1222,23 @@ pub fn build(kind: &str, case: &Calculation, outcome: Option<&Value>, personal: 
             obj.insert("title".into(), json!(custom_title));
         }
     }
+    if let Some(aviso) = unreviewed_notice(case) {
+        if let Some(obj) = data.as_object_mut() {
+            obj.insert("aviso".into(), json!(aviso));
+        }
+    }
     if !personal {
         mask_identification(&mut data);
     }
     Ok(data)
+}
+
+/// Aviso de capa quando o cálculo saiu direto do CNIS, sem revisão de vínculos e salários.
+/// Usa a mesma situação que a tela mostra, para o PDF não dizer menos que a aplicação.
+fn unreviewed_notice(case: &Calculation) -> Option<&'static str> {
+    case.status.contains("não revisados").then_some(
+        "Dados do CNIS não revisados. Este cálculo usou o extrato como veio, sem conferência de vínculos e salários. Revise antes de usar em parecer ou petição.",
+    )
 }
 
 /// Substitui as células de identificação direta sem tocar em datas, sexo ou valores.
@@ -1246,6 +1259,17 @@ fn mask_identification(data: &mut Value) {
 #[cfg(test)]
 mod tests {
     use super::*;
+
+    #[test]
+    fn cnis_sem_revisao_leva_aviso_ao_pdf() {
+        let mut case = Calculation::default();
+        case.status = "Simulação do CNIS calculada; dados ainda não revisados".into();
+        let data = build("summary", &case, None, false).unwrap();
+        assert!(data["aviso"].as_str().unwrap().starts_with("Dados do CNIS não revisados"));
+        case.status = "Simulação técnica calculada".into();
+        let data = build("summary", &case, None, false).unwrap();
+        assert!(data.get("aviso").is_none());
+    }
 
     #[test]
     fn identification_follows_the_personal_option() {
